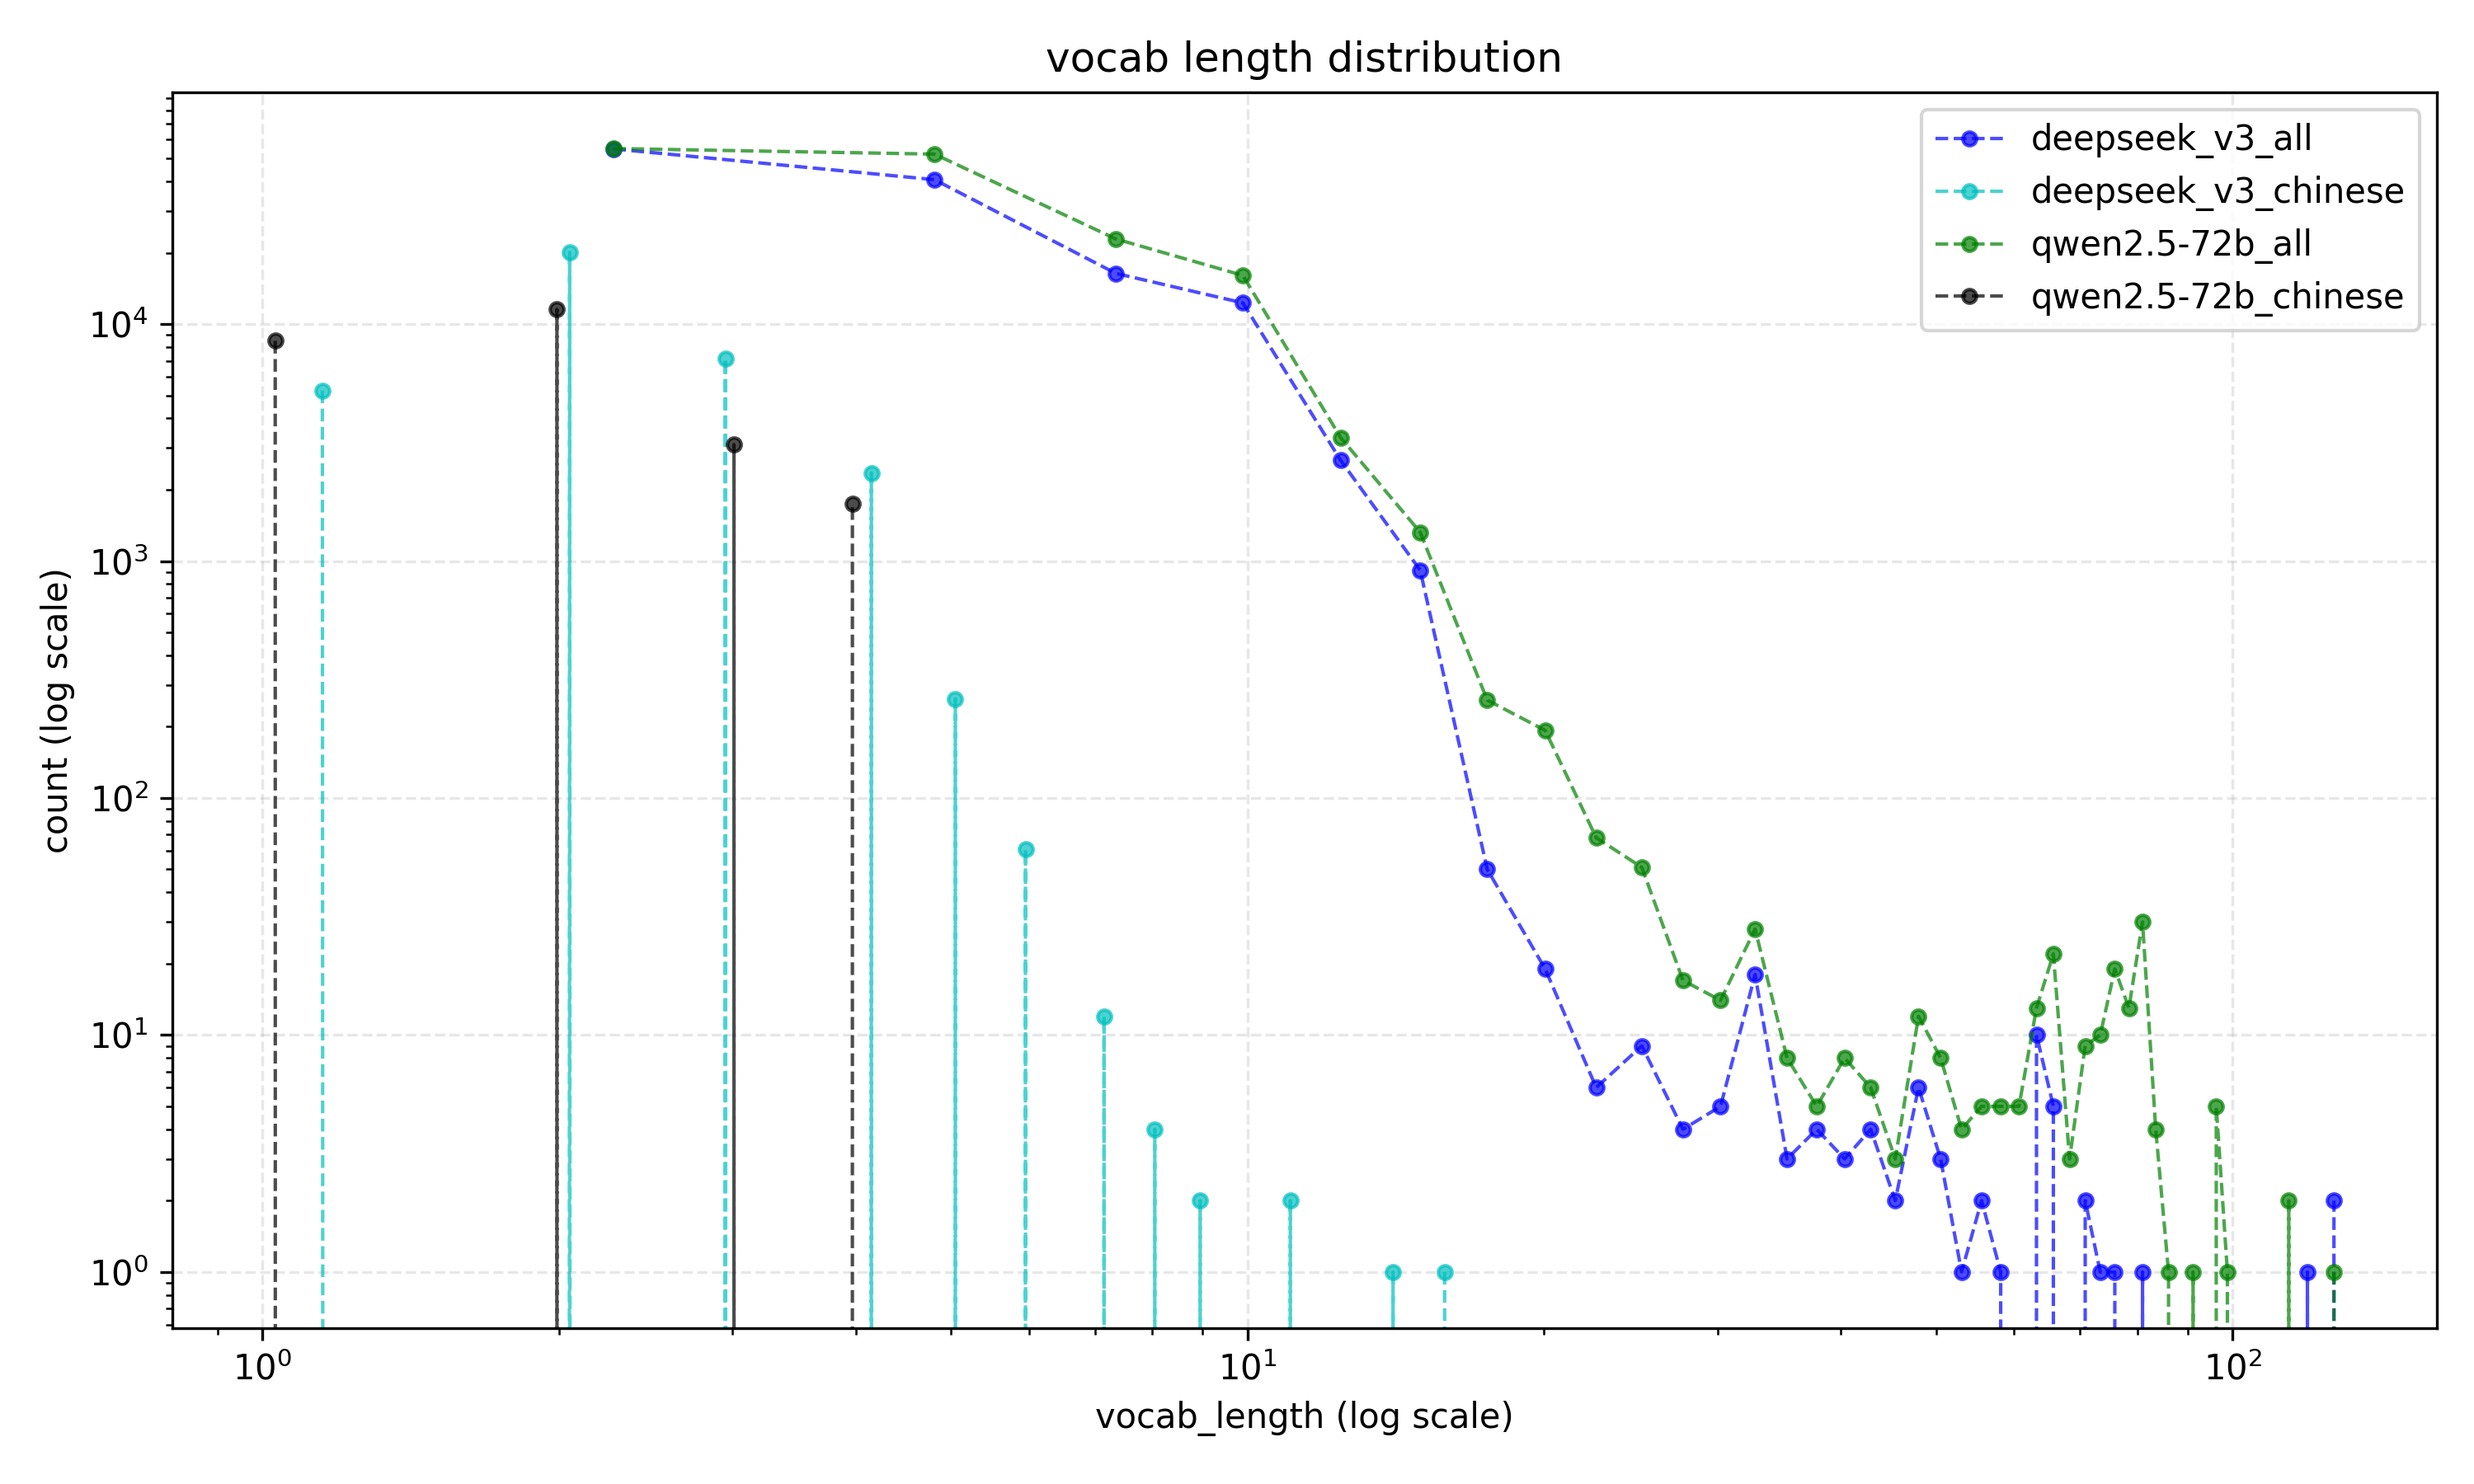
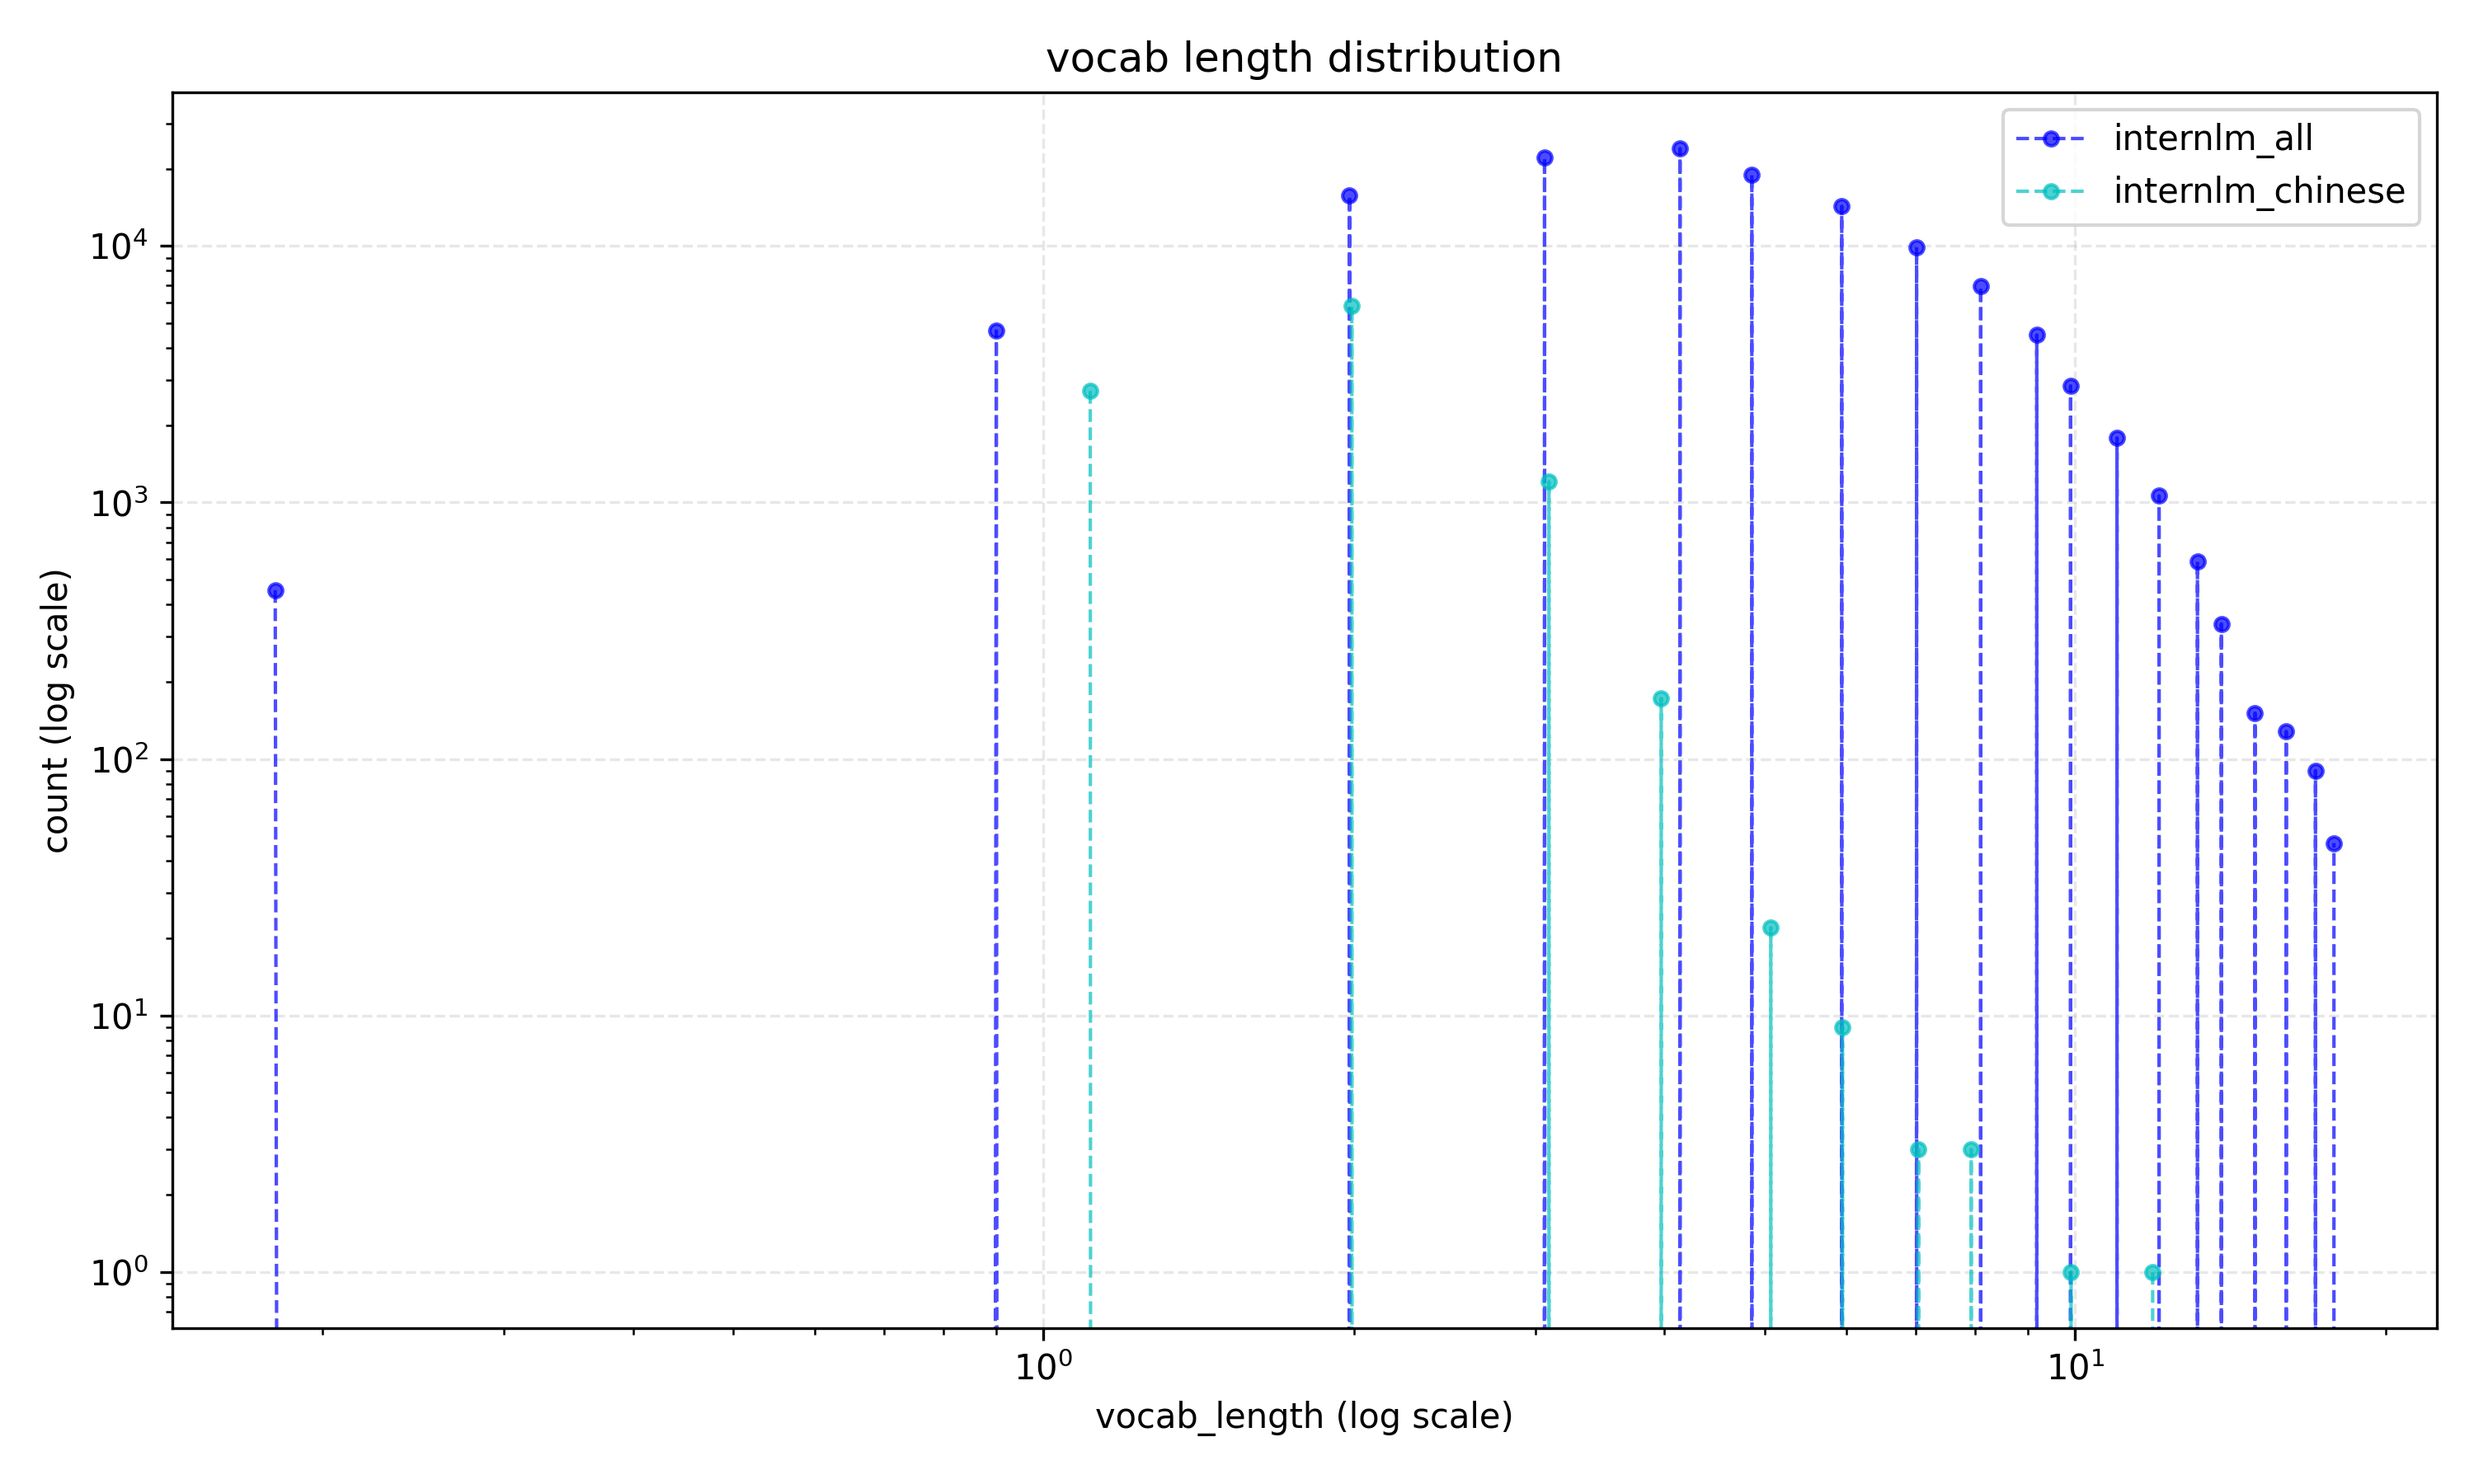
support internlm

diff --git a/vocab_convert.py b/vocab_convert.py
@@ -12,7 +12,7 @@ import jieba
 def parse_args():
     parser = argparse.ArgumentParser(description='词汇表转换工具')
     parser.add_argument('--tok_path', type=str, default='both',
-                       choices=['deepseek_v3', 'qwen2.5-72b', 'MiniCPM3-4B'],
+                       choices=['deepseek_v3', 'qwen2.5-72b', 'MiniCPM3-4B', 'internlm'],
                        help='tokenizer路径，可选值：deepseek_v3 或 qwen2.5-72b 或者 both')
     return parser.parse_args()
 
@@ -148,36 +148,45 @@ def process_vocab(tok_path):
     v_len=dict()
     tuples = []
 
-    logger.info(f'load vocab from {tok_path}/tokenizer.json')
     all_lens = []
     chinese_lens = []
     seg_chinese_vocab = dict()
     english_vocab = dict()
     seg_char_vocab = dict()
     
-    with open(tok_path + '/tokenizer.json') as f:
-        j_obj = json.load(f)
-        vocab = j_obj['model']['vocab']
-        for key in vocab:
-            c = uni_str_to_bytes(key).replace('\n', '\\n').replace('\t', '\\t')
-            lang = detect_lang(c)
-            segs = []
-            if lang == 'english':
-                english_vocab[c] = len(c)
-            elif lang == 'zh-cn':
-                segs = list(jieba.cut(c))
-                for seg in segs:
-                    count = 0 if seg not in seg_chinese_vocab else seg_chinese_vocab[seg]
-                    seg_chinese_vocab[seg] = count + 1
-                    for char in seg:
-                        count = 0 if char not in seg_char_vocab else seg_char_vocab[char]
-                        seg_char_vocab[char] = count + 1
+    vocab = []
+    if tok_path == 'internlm':
+        logger.info(f'load vocab from {tok_path}/internlm3-8b-instruct/vocab.txt')
+        tok_path=tok_path + '/internlm3-8b-instruct'
+        with open(tok_path+"/vocab.txt") as f:
+            for line in f:
+                vocab.append(line.strip())
+    else:
+        logger.info(f'load vocab from {tok_path}/tokenizer.json')
+
+        with open(tok_path + '/tokenizer.json') as f:
+            j_obj = json.load(f)
+            vocab = j_obj['model']['vocab']
+    for key in vocab:
+        c = uni_str_to_bytes(key).replace('\n', '\\n').replace('\t', '\\t')
+        lang = detect_lang(c)
+        segs = []
+        if lang == 'english':
+            english_vocab[c] = len(c)
+        elif lang == 'zh-cn':
+            segs = list(jieba.cut(c))
+            for seg in segs:
+                count = 0 if seg not in seg_chinese_vocab else seg_chinese_vocab[seg]
+                seg_chinese_vocab[seg] = count + 1
+                for char in seg:
+                    count = 0 if char not in seg_char_vocab else seg_char_vocab[char]
+                    seg_char_vocab[char] = count + 1
  
-            v_len[key + "\t" + c + "\t" + ' '.join(segs)]=len(c)
-            tuples.append({'origin': key, 'converted': c, 'len(converted)': len(c), 'converted_seg': ' '.join(segs),'lang': lang})
-            all_lens.append(len(c))
-            if lang == 'zh-cn':
-                chinese_lens.append(len(c))
+        v_len[key + "\t" + c + "\t" + ' '.join(segs)]=len(c)
+        tuples.append({'origin': key, 'converted': c, 'len(converted)': len(c), 'converted_seg': ' '.join(segs),'lang': lang})
+        all_lens.append(len(c))
+        if lang == 'zh-cn':
+            chinese_lens.append(len(c))
 
     sorted_dict = {key: value for key, value in sorted(
         v_len.items(), key=lambda item: item[1], reverse=False)}

diff --git a/llm_segment.py b/llm_segment.py
@@ -60,14 +60,38 @@ text='你好'
 text='小明去体育商品店问：乒乓球拍卖完了吗？请问小明想买什么？'
 text='李鹏飞到南京'
 text='李鹏飞到南京。请问李鹏在哪里？'
-for name in [name1, name2, name3]:
-    seg = segment(name, text)
-    print(f'{name}\t{seg}')
 text='根据你提供的信息，李鹏飞已经飞到了南京，所以他现在在南京。如果你有更具体的地点或上下文信息，可以进一步明确他的位置。'
 text='中国人民解放军'
 text='最高人民法院党史学习教育需要注意的是马克思恩格斯习近平新时代中国特色社会主义思想'
 text='生命周期函数'
-for name in [name1, name2, name3]:
-    seg = segment(name, text)
-    print(f'{name}\t{seg}')
+text='李鹏飞和李鹏飞到南京了。请严格根据上文回答：李鹏在哪里？怎么到的？'
+#for name in [name1, name2, name3]:
+#    seg = segment(name, text)
+#    print(f'{name}\t{seg}')
 
+from openai import OpenAI
+
+client = OpenAI(api_key="sk-cc7f408684f24ed786cc9c70784beed6", base_url="https://api.deepseek.com")
+
+prompt= "给定一段绳子，随机切两刀，切完之后的三段绳子构成三角形概率有多大？"
+prompt = '中国人民解放军创立于1935年。请根据上述语句回答解放军哪里成立？'
+prompt='最高人民法院党史学习教育需要注意的是马克思恩格斯习近平新时代中国特色社会主义思想。请告诉我的语句有几个字？'
+prompt='习近平新时代中国特色社会主义思想。请严格根据上文回答下面问题（不要使用任何模型自身知识）：上文中提到了思想在哪个国家？'
+
+prompt='最高人民法院党史学习教育需要注意的是马克思恩格斯习近平新时代中国特色社会主义思想。请严格根据上文回答下面问题（不要使用任何模型自身知识）：中国人民银行在学习什么？'
+prompt='习近平新时代中国特色社会主义思想。请严格尝试对上面语句拆成字。'
+prompt='最高人民法院党史学习教育需要注意的是马克思恩格斯习近平新时代中国特色社会主义思想。请对上面语句拆成字'
+prompt = 'segment .translatesAutoresizingMaskIntoConstraints to subwords'
+seg = segment(name3, prompt)
+response = client.chat.completions.create(
+    model="deepseek-chat",
+    messages=[
+        {"role": "system", "content": "You are a helpful assistant"},
+        {"role": "user", "content": prompt},
+    ],
+    stream=False
+)
+
+print(f'prompt: {prompt}')
+print(f'segment: {seg}')
+print(f'deepseek-v3:{response.choices[0].message.content}')
